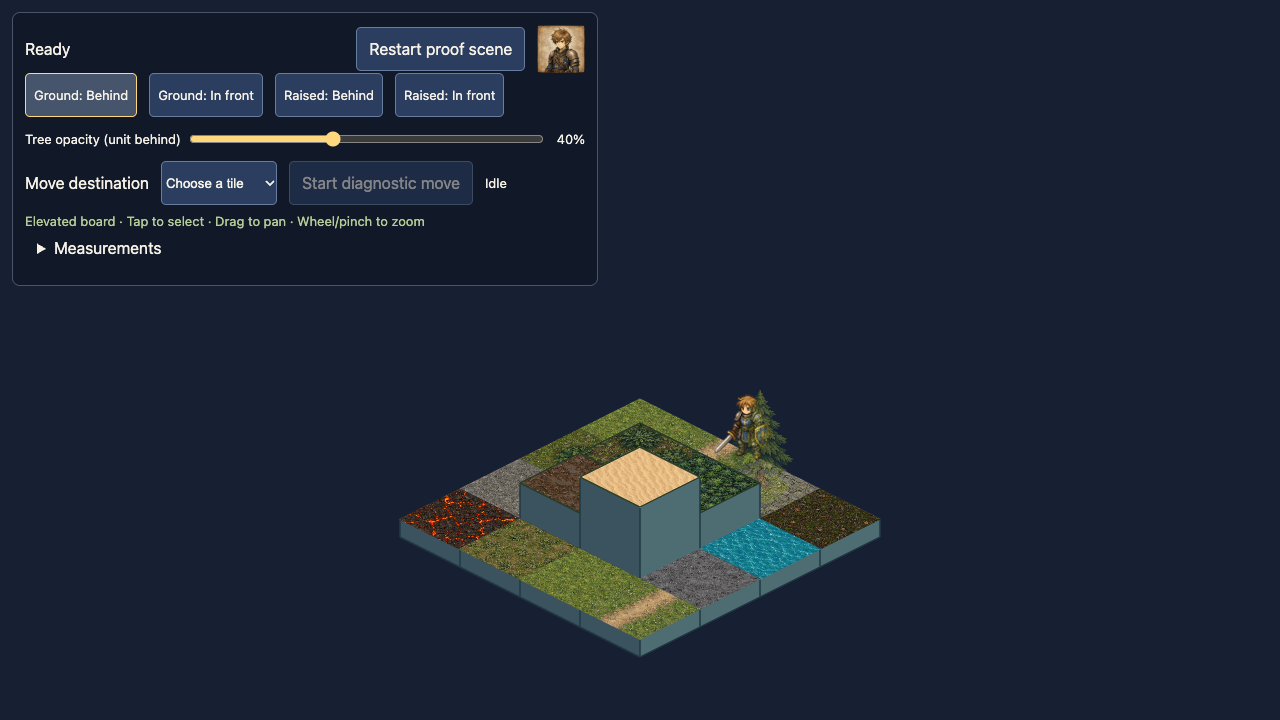
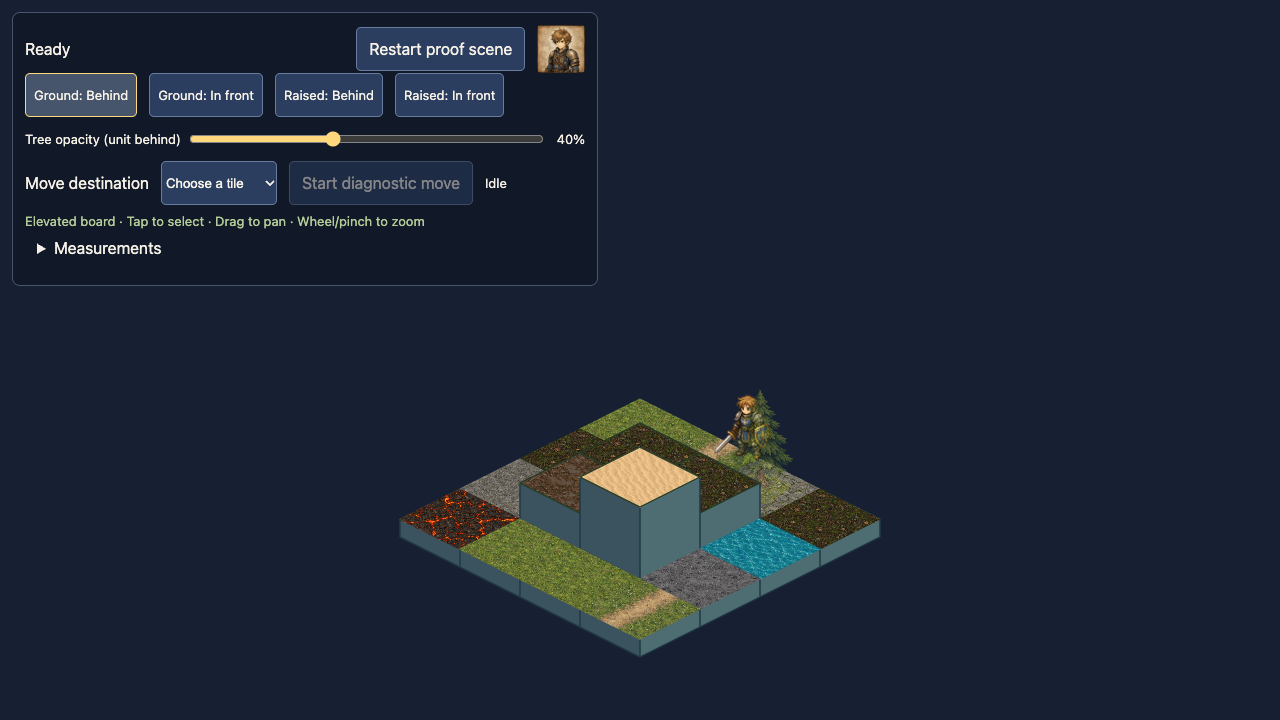
Keep trees and foliage separate from ground textures

Changed region(s): [[0.4062, 0.5806, 0.5938, 0.7028], [0.375, 0.7333, 0.4375, 0.7944]]

diff --git a/src/terrain/materials.ts b/src/terrain/materials.ts
@@ -1,10 +1,15 @@
 // Square top-down sources; Phaser supplies projection and elevation geometry.
 export const TERRAIN_IDS = ["grass","grass_path","stone","forest","tree_single","tree_cluster","tree_dense","water","cliff","mud","sand","ash","lava","brush"] as const;
 export type TerrainId = typeof TERRAIN_IDS[number];
-export const TERRAIN_MATERIALS = TERRAIN_IDS.map(id => ({
+// Trees are separate props; their tile surfaces use the forest floor material.
+export const MATERIAL_IDS = TERRAIN_IDS.filter(id =>
+  id !== 'tree_single' && id !== 'tree_cluster' && id !== 'tree_dense' && id !== 'brush',
+);
+export const TERRAIN_MATERIALS = MATERIAL_IDS.map(id => ({
   id, key: `terrain-${id}`, url: `/textures/terrain/runtime/${id}-top-down-v1.png`,
   sourceUrl: `/textures/terrain/${id}-top-down-v1.png`,
 }));
 export function terrainTextureKey(id: TerrainId = 'grass'): string {
-  return `terrain-${id}`;
+  const surface = id === 'tree_single' || id === 'tree_cluster' || id === 'tree_dense' ? 'forest' : id;
+  return `terrain-${surface === 'brush' ? 'grass' : surface}`;
 }

diff --git a/tests/assets.spec.ts b/tests/assets.spec.ts
@@ -13,7 +13,7 @@ test('canonical assets, near/far fixtures and restart remain stable', async ({ p
       const proof = await page.evaluate(() => window.fitDiagnostics().proof);
       expect(proof?.relation).toBe(relation === 'Behind' ? 'behind' : 'front');
       expect(proof?.propElevation).toBe(elevation === 'Ground' ? 0 : 1);
-      expect(proof?.assetCount).toBe(17);
+      expect(proof?.assetCount).toBe(13);
       expect(proof?.propAlpha).toBe(relation === 'Behind' ? 0.4 : 1);
       expect(proof?.heroDepth! < proof?.propDepth!).toBe(relation === 'Behind');
       await page.screenshot({ path: test.info().outputPath(`${elevation}-${relation}.png`) });

diff --git a/docs/art/terrain-textures.md b/docs/art/terrain-textures.md
@@ -2,13 +2,13 @@
 
 New project-generated artwork, created with the built-in image_gen tool on 2026-10-07 at Brian's request. Exact prompts are in `terrain-prompts-v1.json`. No legacy PNGs were used as generation inputs and no third-party license is asserted.
 
-Full-resolution source PNGs are preserved for future artwork generation. Phaser loads 256×256 Lanczos-resampled PNGs from `public/textures/terrain/runtime/` (1,913,857 bytes total for all 14). The catalog exposes both `url` and `sourceUrl`.
+Full-resolution source PNGs are preserved for future artwork generation. Phaser loads 256×256 Lanczos-resampled PNGs from `public/textures/terrain/runtime/` (1,334,733 bytes total for 10 materials). The catalog exposes both `url` and `sourceUrl`.
 
-All 14 terrain IDs from the legacy BattleView texture catalog have independent square, opaque material sources in `public/textures/terrain/`. The catalog is `src/terrain/materials.ts`; a tile's optional `terrain` selects its Phaser texture, defaulting to grass. The diagnostic board displays the catalog in row order, repeating grass and path in its last two cells.
+The 14 terrain IDs from the legacy BattleView texture catalog map to 10 square, opaque ground material sources in `public/textures/terrain/`. The catalog is `src/terrain/materials.ts`; a tile's optional `terrain` selects its Phaser texture, defaulting to grass. The diagnostic board displays the catalog in row order, repeating grass and path in its last two cells.
 
 Phaser rotates the square 45 degrees, compresses its vertical axis to the shared 2:1 diamond, and clips one pixel of bleed to the tile face. Elevation and sides remain geometry. Slope/corner artwork should reuse these materials rather than bake perspective into another source texture.
 
-Tree single, cluster, and dense sources depict top-down canopies. Forest depicts the underlying forest floor. These sources are useful for future art generation; the existing upright tree prop remains a separate depth-sorted object in the diagnostic.
+Tree single, cluster, and dense terrain IDs all map to the forest floor texture. Brush terrain uses grass. Embedded canopy and brush textures have been removed. Trees and foliage are added as separate depth-sorted props, following issue 16/PR 23; the existing upright tree remains separate in the diagnostic.
 
 For future variants, use the relevant PNG as a material/style reference and request the new geometry explicitly. Preserve palette, detail scale, and diffuse lighting. The prompts request repeat-friendly edges, but seamless wrapping is not guaranteed by generation; inspect neighboring copies before using a source across a continuous surface.
 
